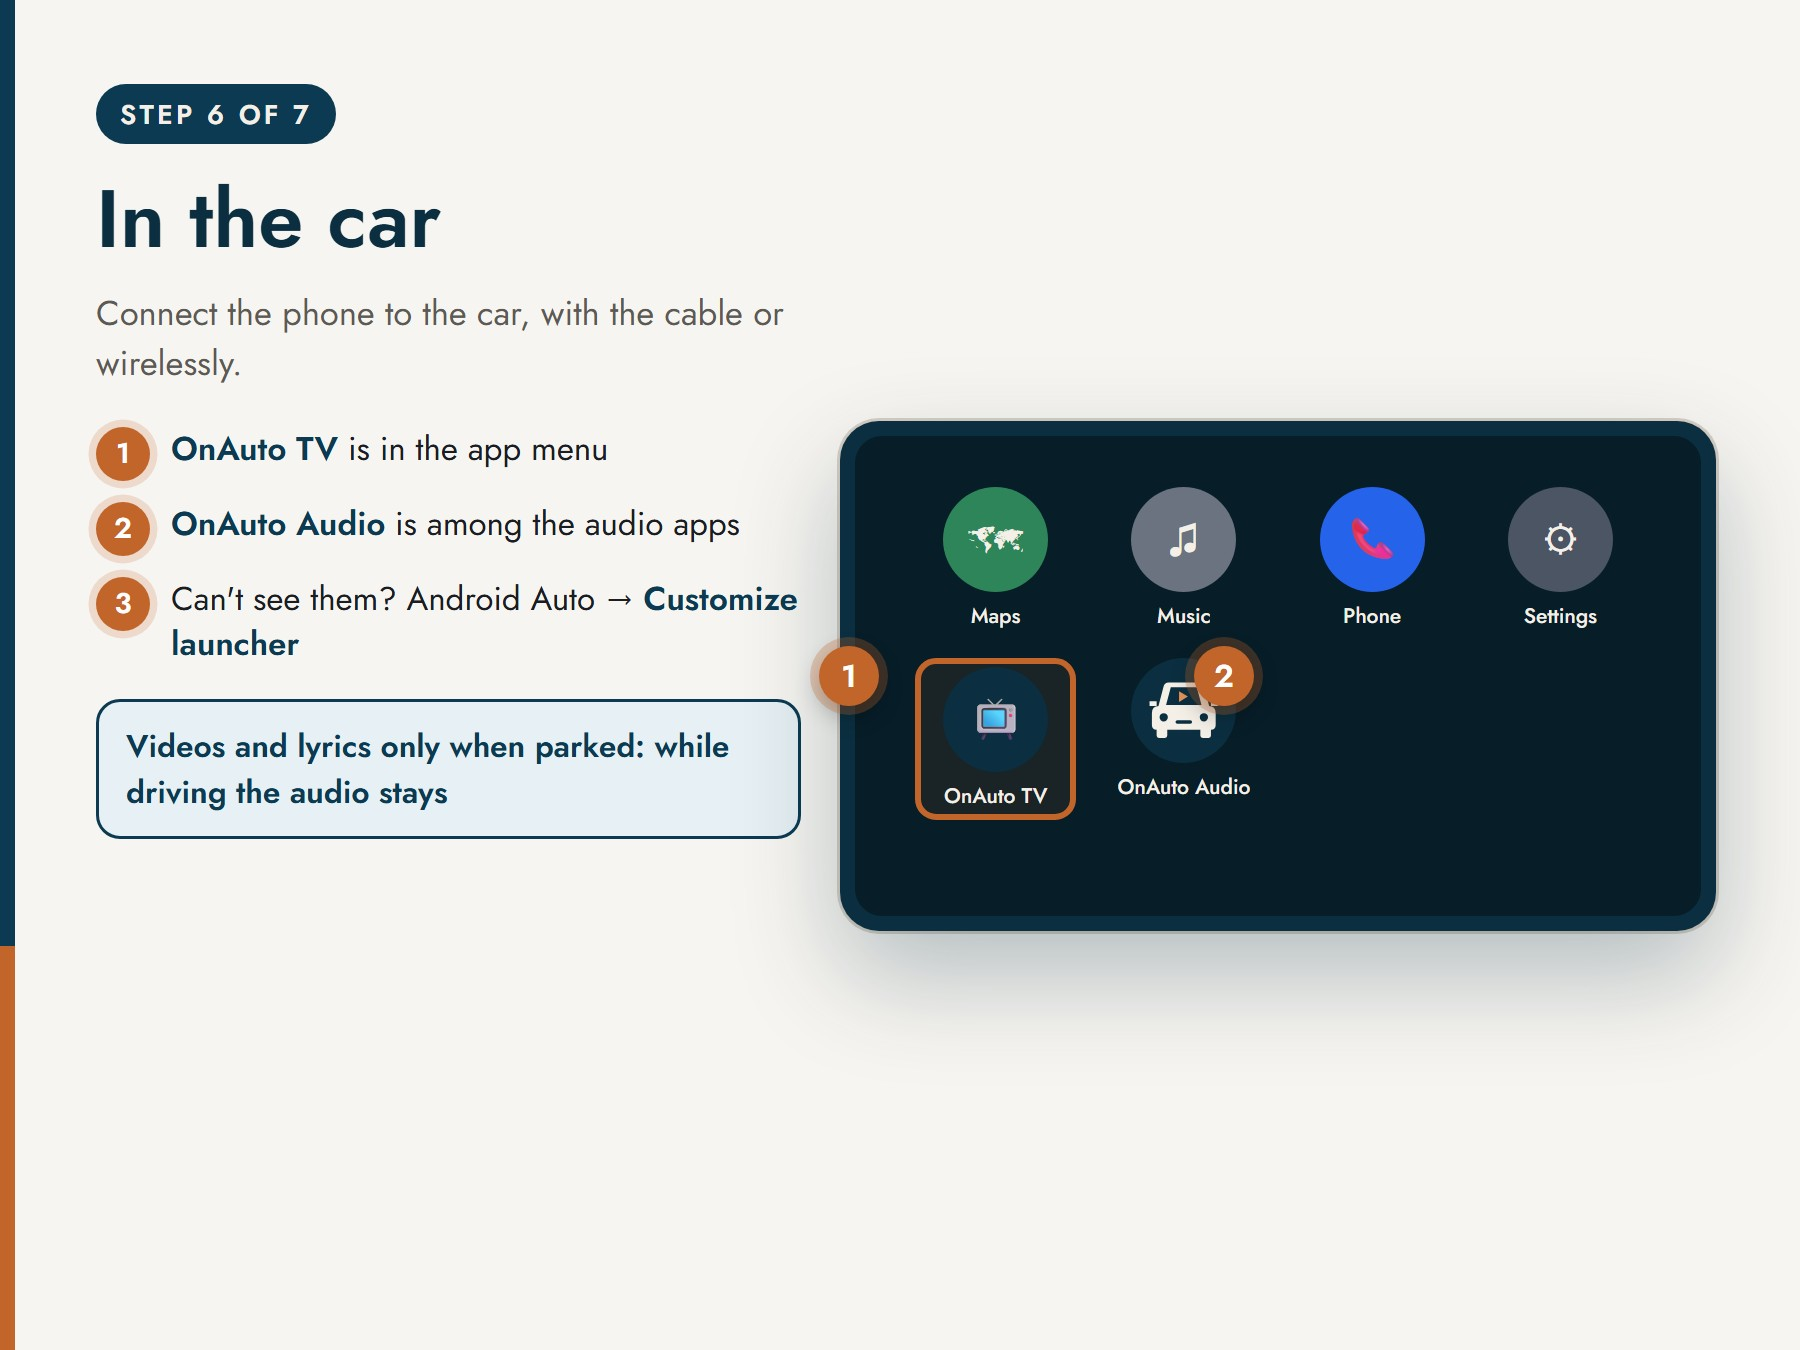
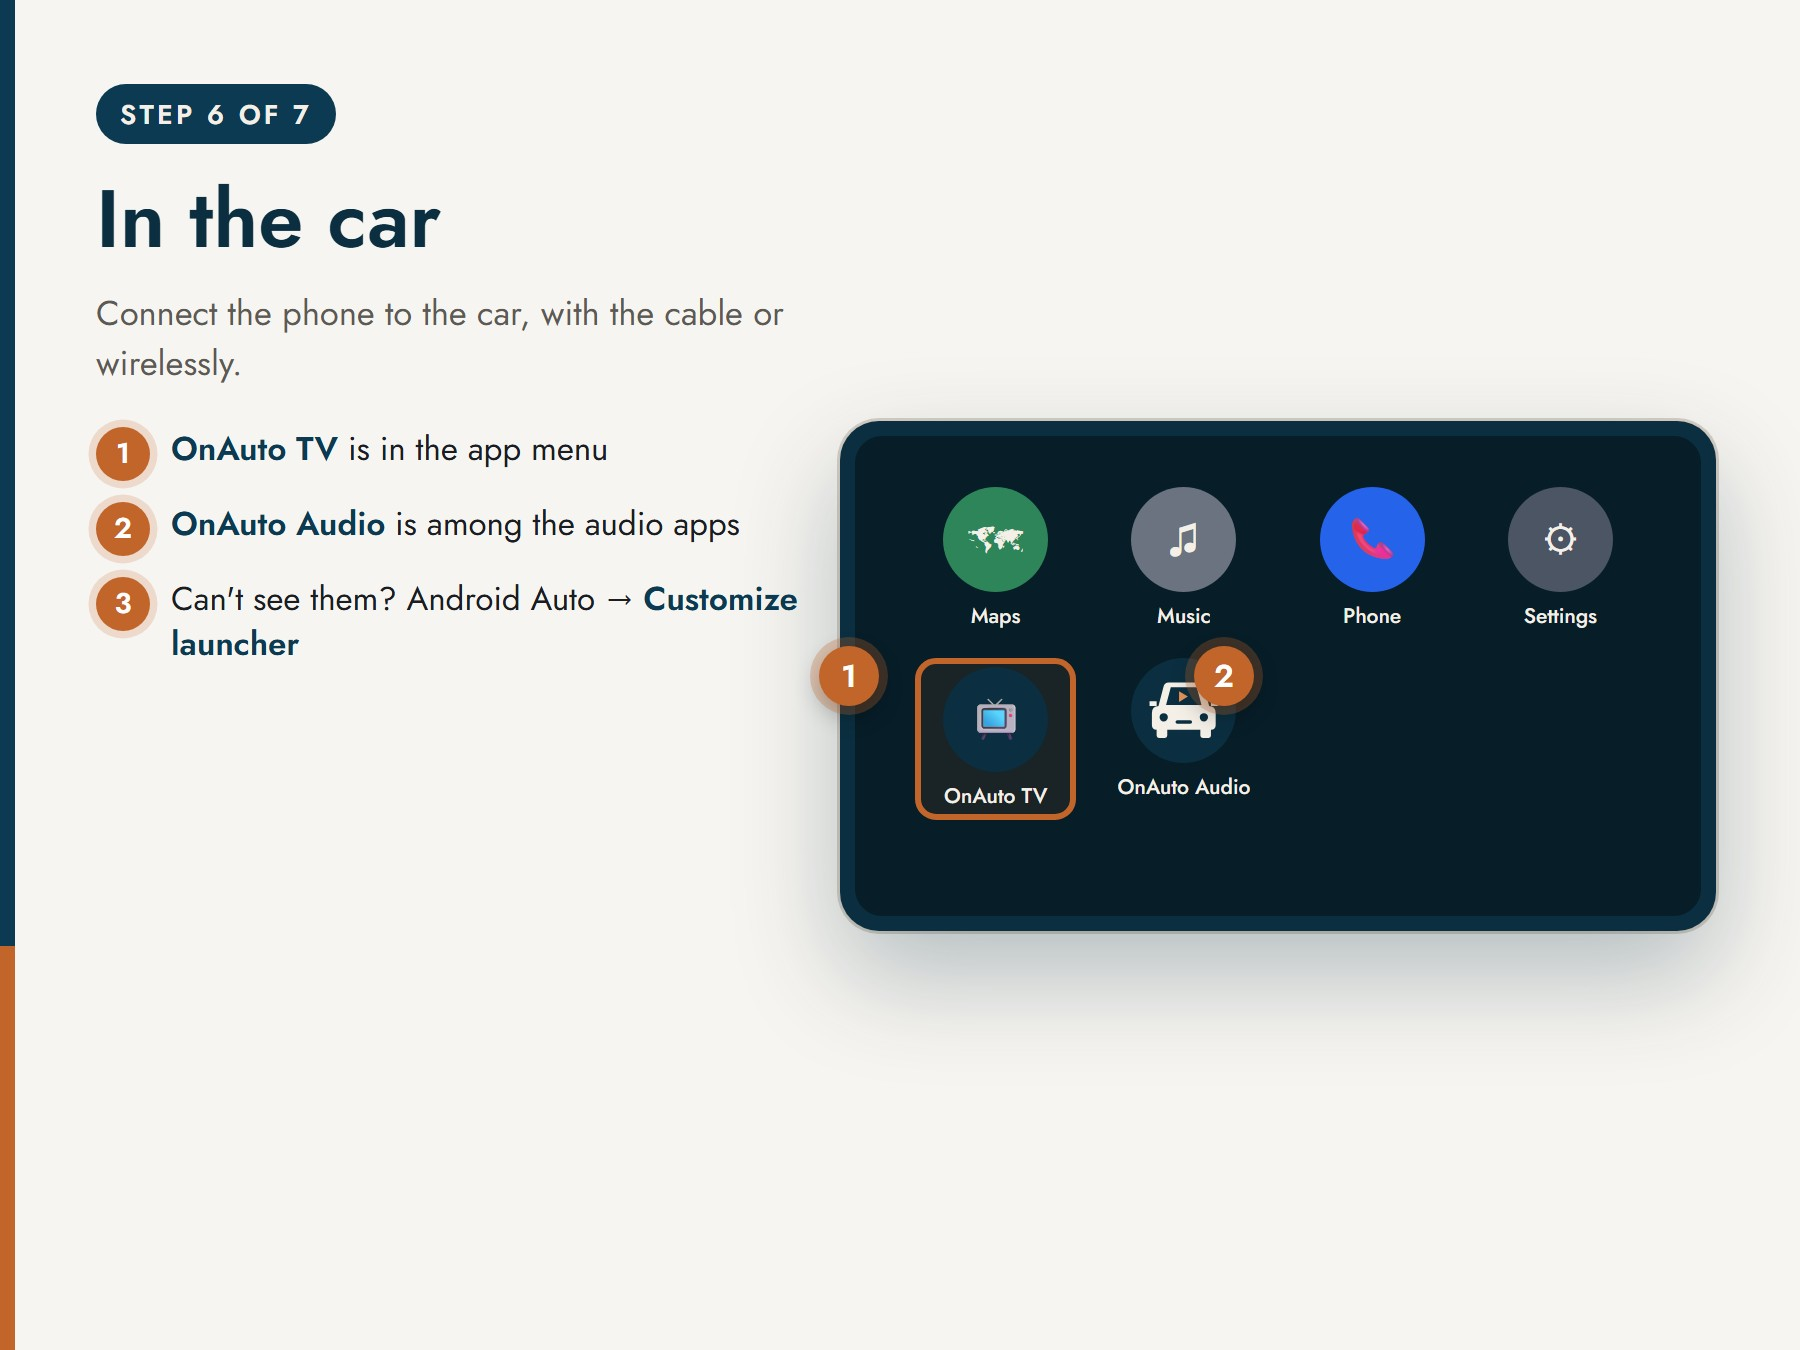
Presentazione: tolta la sezione sul video a vettura ferma

Changed region(s): [[0.0622, 0.5289, 0.4044, 0.6222]]

diff --git a/README.md b/README.md
@@ -64,10 +64,6 @@ La routine parte da sola quando il telefono si collega all'auto (Bluetooth, una 
 
 <p align="center"><img src="docs/img/passo7.jpg" width="720" alt="Cosa trovi in auto"></p>
 
-## Sicurezza
-
-Video e testi si vedono **solo a vettura ferma**: in marcia continua l'audio.
-
 ## Come si ottiene
 
 Tutto passa dal bot Telegram **[@OnAutoCylBot](https://t.me/OnAutoCylBot)**:
